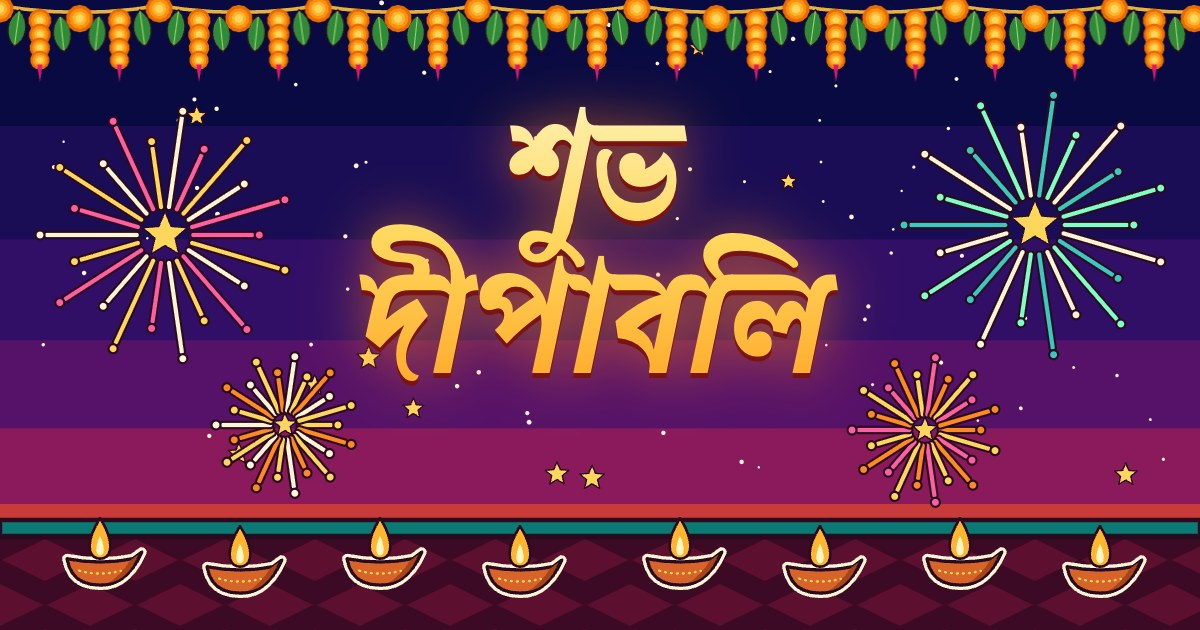
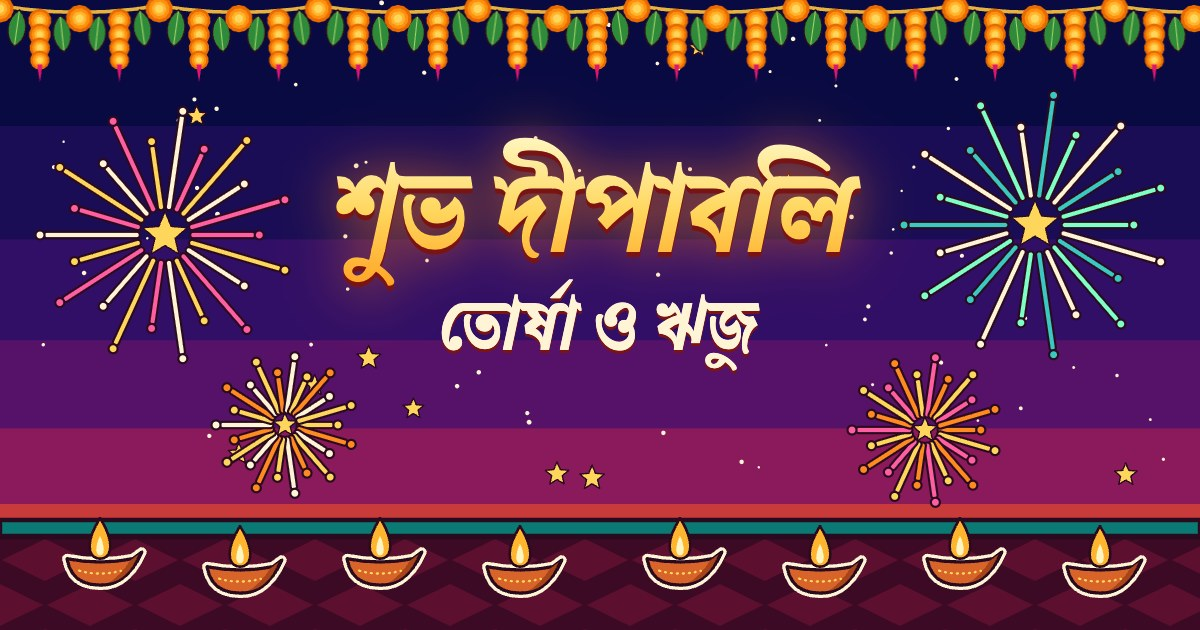
Add the senders' names to the Bengali greeting

Changed region(s): [[0.2467, 0.1508, 0.74, 0.6333]]

diff --git a/bn.html b/bn.html
@@ -11,10 +11,10 @@ if (location.hostname.endsWith('github.io')) {
 <meta charset="utf-8">
 <meta name="viewport" content="width=device-width,initial-scale=1,viewport-fit=cover">
 <title>শুভ দীপাবলি! Tap to Play</title>
-<meta property="og:title" content="শুভ দীপাবলি">
+<meta property="og:title" content="শুভ দীপাবলি — তোর্ষা ও ঋজু">
 <meta property="og:type" content="website">
 <meta property="og:url" content="https://happy-diwali-jet.vercel.app/bn.html">
-<meta property="og:image" content="https://happy-diwali-jet.vercel.app/preview-bn.jpg?v=6">
+<meta property="og:image" content="https://happy-diwali-jet.vercel.app/preview-bn.jpg?v=7">
 <meta property="og:image:width" content="1200">
 <meta property="og:image:height" content="630">
 <meta name="twitter:card" content="summary_large_image">
@@ -52,7 +52,7 @@ if (location.hostname.endsWith('github.io')) {
 <script>
 window.T = {
   locale: 'bn-IN', named: false,
-  title: 'শুভ দীপাবলি', from: () => '',
+  title: 'শুভ দীপাবলি', from: n => n, signature: 'তোর্ষা ও ঋজু',
   play: 'Tap to Play', again: 'আবার খেলো', score: 'স্কোর', time: 'সময়', over: 'তোমার স্কোর',
   share: 'Share in WhatsApp', musicOff: 'গান বন্ধ করো', musicOn: 'গান চালু করো', soundOff: 'শব্দ বন্ধ করো', soundOn: 'শব্দ চালু করো',
   invite: () => '',

diff --git a/game.js b/game.js
@@ -403,7 +403,7 @@ function start(T) {
   $('overLabel').textContent = T.over;
 
   const fromPath = location.pathname.match(/\/from\/([^/]+)/);
-  const sender = T.named ? cleanName(fromPath ? decodeURIComponent(fromPath[1]) : new URLSearchParams(location.search).get('from')) : '';
+  const sender = T.signature || (T.named ? cleanName(fromPath ? decodeURIComponent(fromPath[1]) : new URLSearchParams(location.search).get('from')) : '');
   if (sender) { $('from').textContent = T.from(sender); $('from').hidden = false; }
   if (T.named && $('nameDialog').showModal) {
     const dlg = $('nameDialog');

diff --git a/style.css b/style.css
@@ -73,6 +73,7 @@ h1 {
 }
 :lang(bn) h1 { font-size: calc(var(--u) * 92); line-height: 1.04; }
 #from { font-size: calc(var(--u) * 23); line-height: 1.1; font-weight: 600; color: #ffb3d1; margin-top: calc(var(--u) * -6); }
+:lang(bn) #from { font: 400 calc(var(--u) * 42)/1.25 var(--title), serif; color: var(--ivory); text-shadow: 0 calc(var(--u) * 2) 0 #7a1414; }
 #tagline { font-size: calc(var(--u) * 16.5); line-height: 1.25; font-weight: 600; max-width: calc(var(--u) * 320); text-shadow: 0 1px 3px #000; }
 
 #legend {
